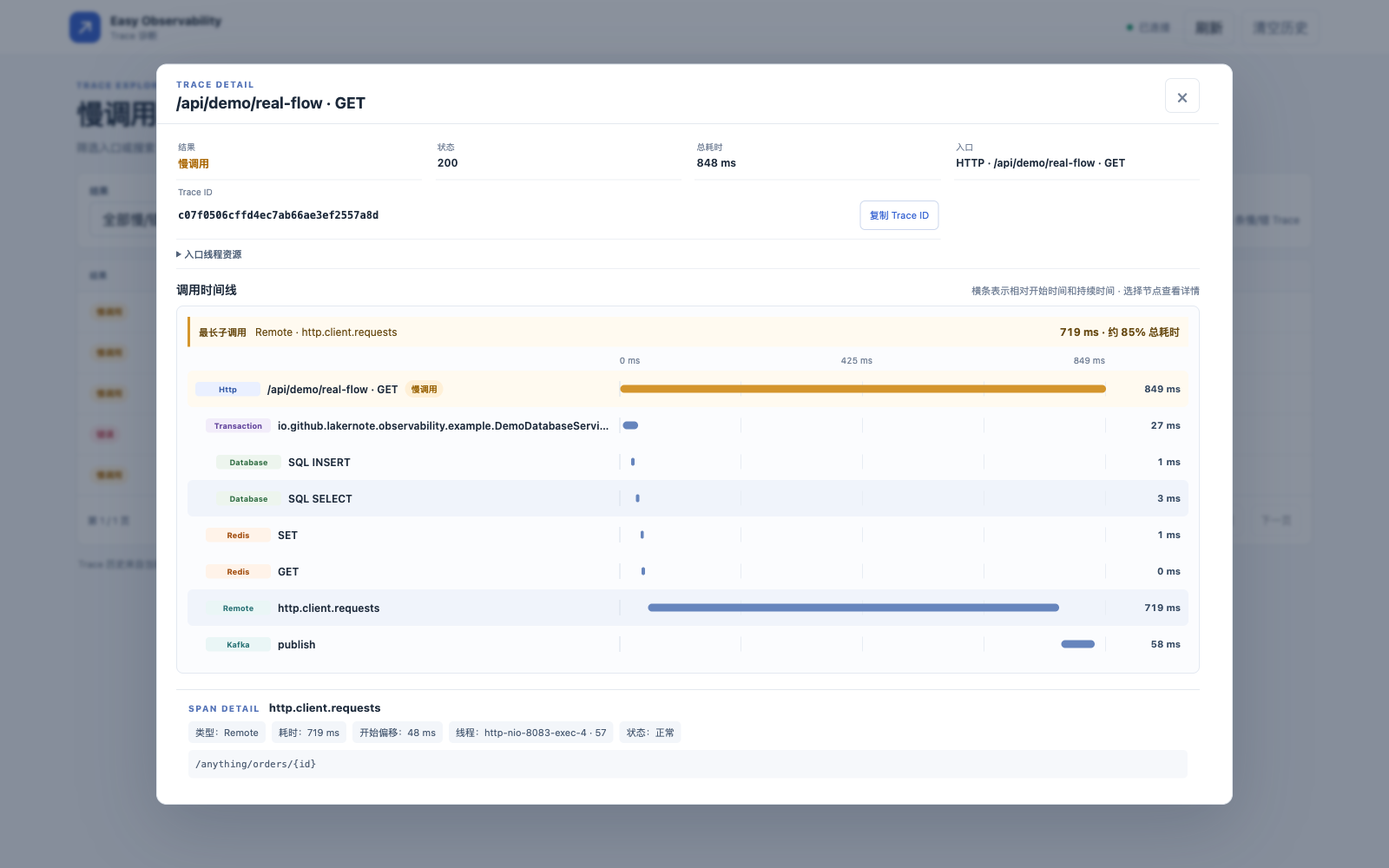
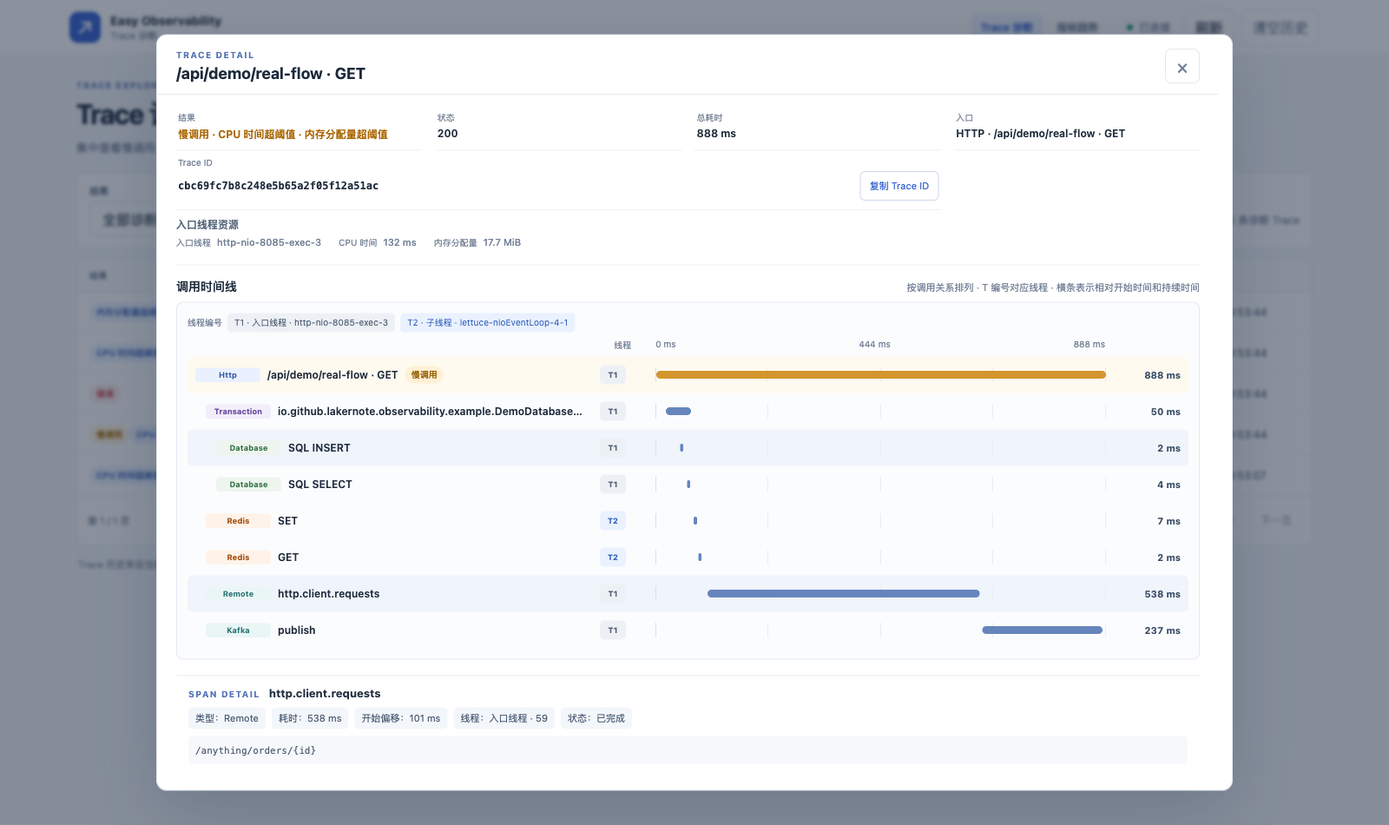
docs: refresh README and metrics previews

diff --git a/README.md b/README.md
@@ -1,29 +1,35 @@
 # Easy Observability
 
-**Spring Boot Trace 与公共指标诊断 Starter**
+**Spring Boot 3/4 内嵌式 Trace 诊断与公共 Metrics 趋势。**
 
-[更新记录](CHANGELOG.md)
+Easy Observability 帮助应用开发者快速回答两个问题：一次请求慢在哪里、异常从哪里开始；服务的请求量、错误和依赖耗时最近有什么变化。引入一个 Starter，即可在应用内查看 Trace 时间线和常用运行指标，不必先部署一套独立观测平台。
 
-面向 Spring Boot 3/4 应用的轻量嵌入式排障工具。它从 HTTP 请求、定时任务和 Kafka 消费入口采集 Trace，并串联可观测到的 JDBC、Redis、事务及远程调用，帮助快速定位慢调用、异常、CPU 消耗和内存分配问题。Trace ID 可沿受支持的 HTTP 客户端和 Kafka 消息传播；页面和有界历史聚焦当前应用实例。
+[![Boot 3 Starter](https://img.shields.io/maven-central/v/io.github.lakernote/easy-observability-spring-boot-3-starter?label=Boot%203%20Starter&logo=apachemaven)](https://central.sonatype.com/artifact/io.github.lakernote/easy-observability-spring-boot-3-starter)
+[![Boot 4 Starter](https://img.shields.io/maven-central/v/io.github.lakernote/easy-observability-spring-boot-4-starter?label=Boot%204%20Starter&logo=apachemaven)](https://central.sonatype.com/artifact/io.github.lakernote/easy-observability-spring-boot-4-starter)
 
-项目提供 Spring Boot 3 和 Spring Boot 4 两个 Starter。除 Trace 诊断外，组件还会把一组固定的公共运行指标写入本地 RRD 历史，并在嵌入页面展示趋势。该历史使用独立的 Micrometer `StepMeterRegistry`，不会替换或重新配置应用已有的 InfluxDB 等指标后端。
+## 解决什么问题
 
-[![Boot 3 Starter on Maven Central](https://img.shields.io/maven-central/v/io.github.lakernote/easy-observability-spring-boot-3-starter?label=Boot%203%20Starter&logo=apachemaven)](https://central.sonatype.com/artifact/io.github.lakernote/easy-observability-spring-boot-3-starter)
-[![Boot 4 Starter on Maven Central](https://img.shields.io/maven-central/v/io.github.lakernote/easy-observability-spring-boot-4-starter?label=Boot%204%20Starter&logo=apachemaven)](https://central.sonatype.com/artifact/io.github.lakernote/easy-observability-spring-boot-4-starter)
+- **单次请求定位：** 从 HTTP、定时任务或 Kafka 消费入口查看调用时间线，串联 JDBC、Redis、远程 HTTP、Kafka 和已接入的异步任务；慢调用、错误及 CPU 时间或内存分配量超阈值的入口会进入诊断列表。
+- **趋势查看：** 在内嵌 Metrics 页面查看 HTTP、任务、Kafka、Redis、JVM/GC、CPU 和线程池等公共指标，识别问题出现的时间和变化方向。
+- **轻量接入：** 通过 Spring Boot Starter 自动配置。指标历史只保存组件定义的公共指标，使用有界的本地 RRD 存储；应用现有 Micrometer registry（例如 InfluxDB）仍按原配置工作。
 
 ## 界面预览
 
-Trace 诊断页汇总慢调用、错误以及 CPU 时间或内存分配量超阈值的入口；打开记录后，可沿时间线查看数据库、Redis、远程调用等节点，并定位耗时最长的子调用或资源告警。
-
-指标趋势页仅展示公共运行指标，并使用固定指标清单和定长本地历史；不会把应用所有自定义 Meter 自动写入 RRD。
+诊断列表聚焦需要排查的入口：
 
 ![Trace 诊断列表](docs/images/trace-list.png)
 
-![Trace 详情时间线及最长子调用](docs/images/trace-detail-timeline.png)
+打开一条记录查看入口资源、线程泳道和依赖调用的相对时序：
 
-## 安装
+![Trace 详情时间线](docs/images/trace-detail-timeline.png)
 
-按应用的 Spring Boot 主版本选择一个 Starter：
+Metrics 页面按指标类别查看历史曲线，点击图例可切换序列：
+
+![公共 Metrics 趋势](docs/images/metrics-dashboard.png)
+
+## 快速接入
+
+选择与应用 Spring Boot 主版本匹配的 Starter（Java 17+）：
 
 ```xml
 <!-- Spring Boot 3 -->
@@ -43,195 +49,16 @@ Trace 诊断页汇总慢调用、错误以及 CPU 时间或内存分配量超阈
 </dependency>
 ```
 
-当前为预览版本，需要 Java 17+ 和 Maven 3.6.3+。在仓库根目录运行 `mvn verify` 可构建两个 Starter 和示例应用。
+默认启用 Trace、公共 Metrics 和嵌入页面。应用启动后访问：
 
-## 模块结构
+- Trace 诊断：`/easy-observability/`
+- Metrics 趋势：`/easy-observability/metrics/`
 
-```text
-easy-observability-spring-boot-common/           # Trace 实现、页面及共享自动配置
-easy-observability-spring-boot-3-autoconfigure/ # Boot 3 自动配置
-easy-observability-spring-boot-3-starter/       # Boot 3 依赖入口
-easy-observability-spring-boot-4-autoconfigure/ # Boot 4 自动配置
-easy-observability-spring-boot-4-starter/       # Boot 4 依赖入口
-examples/                                       # 两个 Boot 版本的端到端示例
-```
+生产环境请通过应用现有的 Spring Security 或网关保护页面和 API；Starter 不创建独立账号或登录系统。常用配置、采集范围和访问控制说明见[接入与配置指南](docs/guide.md)。
 
-应用只需引入对应 Starter。它包含 Actuator 以使用 Spring Boot 的 Observation 基础设施；Starter 不覆盖应用已有的 `MeterRegistry` 或 `ObservationRegistry`，也不额外开放 Actuator 端点。应用是否暴露 Actuator 指标由应用自行配置。
+## 本地体验
 
-## 自动 Trace 与接入边界
-
-自动入口 Trace 来自 Spring MVC HTTP、Spring `@Scheduled` 和启用 Observation 的 Spring Kafka Listener。入口下游调用会作为 Span 加入当前 Trace；没有入口上下文时，不会为单个依赖调用创建伪造的请求 Trace。
-
-| 操作 | Trace 行为 | 边界 |
-| --- | --- | --- |
-| HTTP server | 记录入口路由、状态、耗时和错误 | 非 Spring MVC 入口需要显式接入 |
-| Spring HTTP client、OkHttp | 在对应客户端 Observation 可用时记录远程调用；Spring 管理的 `RestClient.Builder` 自动传递 Trace ID；Spring 容器中的 OkHttpClient 会自动增强 | `RestClient.create()` 等绕过 Spring Builder 的客户端不会自动增强 |
-| JDBC | 在当前 Trace 中记录脱敏 SQL 模板、耗时和错误 | 自动采集；不记录绑定参数，也不做 SQL 汇总统计 |
-| Spring 事务、MyBatis | 记录事务范围；MyBatis SQL 通过 DataSource/JDBC 监听器记录为 SQL Span | 不额外创建 Mapper Span；自定义事务或非 Spring 边界需自行接入 |
-| Redis | Lettuce Observation 记录命令级 Span；通过 Spring Data Redis 使用 Redisson 时，连接命令也会记录为 Span | Spring Boot 3/4 自动接入 Lettuce Observation；Redisson 需通过 `RedissonConnectionFactory` 暴露为 `RedisConnectionFactory` |
-| Kafka | Listener 和 producer Observation 记录为入口或依赖 Span，并传播 Trace ID | Spring Kafka 需要启用 Listener/Template Observation；自定义消费者需自行接入 |
-| 线程池任务 | `TraceContextTaskDecorator` 在线程池边界传播活动 Trace，并自动记录任务耗时和异常 | 在线程池配置一次装饰器；无活动父 Trace 时不创建任务节点 |
-| 业务方法 | `TraceBlock` 或 `@TraceSpan` 添加业务 Span | 不扫描所有 Service；`@TraceSpan` 需要应用已有 Spring AOP |
-
-组件维护自己的 RRD4J `StepMeterRegistry`，只接受下文列出的公共指标，并限制会形成历史序列的标签数量。应用已有的 `MeterRegistry`（例如 InfluxDB）仍按原配置工作；Micrometer 的 Composite registry 会把观察数据同时发送给各 registry。RRD 历史只在当前实例本地保存，不会跨实例汇总。
-
-公共指标范围包括 HTTP 入口/出口请求数、错误数和平均耗时，定时任务与 Kafka Listener/发送，Redis 命令/操作耗时，JVM 内存池与 GC 暂停，进程/系统 CPU、JVM 活跃线程，以及 Spring/JDK 线程池活跃数、排队数、池大小、最大值和完成任务数。历史保留有助于定位问题的有限标签维度：HTTP 方法与 URI、任务和 Kafka 名称、Redis 客户端与命令、JVM 内存池、GC 事件和线程池名称均可独立成线；每类维度设有上限，超出部分进入“其他”。点击图例可隐藏或显示曲线，拖动可缩放时间范围。CPU 和活跃线程等实例级指标按实例展示；Trace 用于查看单次调用细节。Kafka 发送/消费指标遵循 Spring Kafka Observation 开关；Redis 指标来自 Lettuce Observation，或通过 Redisson `RedisConnectionFactory` 执行的 Spring Data Redis 命令。
-
-短时间范围按配置的采样周期显示；默认 60 秒采样时，7 天和 30 天范围分别使用约 5 分钟和 1 小时分辨率。更改采样周期后，归档间隔会按采样周期取整，并由查询接口返回实际间隔。长时间范围中的每个点是该归档区间内已有采样值的平均，不是区间总数；平均耗时先按采样周期计算，降采样后也不是按请求数加权的全时段均值。部分 JVM 内存池没有固定上限，不会绘制该池的上限线。
-
-指标页面地址为 `/easy-observability/metrics/`，只读 API 为 `/api/easy-observability/metrics?period=1h|24h|7d|30d`。历史默认每分钟采样、保留 30 天，RRD 文件上限 64 MiB。可配置存储目录和上限；调整采样周期或保留周期会重建固定大小的 RRD 文件并清除旧的本地指标历史。每个服务实例应使用自己的本地目录，不要让多个进程同时写同一个 RRD 文件。
-
-Lettuce Redis 指标复用 Micrometer Observation；Redisson 的 Spring Data Redis 命令由 Starter 记录低基数操作计时。直接通过 Redisson API 调用的操作（例如 `RLock`、`RMap`）不经过 `RedisConnectionFactory`，不会进入这组命令指标。
-
-## Trace 诊断与根因定位
-
-诊断列表只保留慢调用、错误或 CPU 时间/内存分配量超阈值的入口，不会显示普通请求。列表支持按入口、结果类型和文本搜索，可匹配 Trace ID、SQL、依赖名称与错误摘要。详情包含入口总耗时、各调用节点耗时、HTTP 状态、线程信息及调用时间线，并显示入口线程在本次入口执行期间消耗的 CPU 时间和累计内存分配量。CPU 时间不是 CPU 使用率；内存分配量不是当前堆占用，两个数都不包含子线程。单个依赖错误会标记在对应 Span 上；依赖耗时仍完整保留，便于从入口 Trace 中定位耗时步骤。
-
-捕获到异常时，详情和诊断归档会保存异常类型、消息及有界堆栈；HTTP 5xx 等只有状态码的错误会标记为错误，但没有异常对象时不会生成虚构堆栈。SQL 会在进入 Trace 前清理字面量和注释。调用树和异常堆栈均有大小限制，避免单条异常无限扩张存储。
-
-慢调用、错误及资源超阈值 Trace 会同时保留在有界内存近期列表和本地 JSONL 文件中；正常 Trace 不会占用这两处历史记录。默认文件为 `./data/easy-observability/traces.jsonl`；多实例之间不会自动汇总。Trace ID 默认通过 `X-Trace-Id` 请求头传递。页面路径为 `/easy-observability/`，Trace API 路径为 `/api/easy-observability`；查询接口为 GET，清空历史为 `POST /api/easy-observability/storage/clear`。诊断筛选 API 为 `/api/easy-observability/diagnostics?kind=slow|error|resource`。
-
-## 配置
-
-以下配置均可省略；默认开启 Trace、HTTP 页面及 JDBC/Redis/事务节点采集，并在每个入口采集入口线程在入口执行期间的 CPU 时间和内存分配量。CPU 时间表示入口线程实际运行在 CPU 上的累计时间，不是 CPU 使用率；内存分配量是该线程期间创建对象的累计大小，不是当前堆占用。两项数据均不包含子线程。Starter 会提供线程池上下文装饰器 Bean，在线程池配置使用后才会传播和记录任务。慢阈值仅用于 HTTP、定时任务和 Kafka 消费入口；设为 `0` 或负数可关闭对应入口的慢分类。依赖节点始终记录耗时和错误，不单独按慢阈值标记；所有命中的诊断 Trace 都会保留。
-
-```yaml
-easy:
-  observability:
-    enabled: true
-    trace:
-      enabled: true
-      header-name: X-Trace-Id
-      http-slow-threshold-ms: 500
-      job-slow-threshold-ms: 1000
-      kafka-consumer-slow-threshold-ms: 1000
-      cpu-threshold-ms: 500
-      allocated-memory-threshold: 50MB
-      diagnostic-trace-file: ./data/easy-observability/traces.jsonl
-      diagnostic-history-limit: 1000
-      diagnostic-max-bytes: 8MB
-    metrics:
-      enabled: true
-      step: 60s
-      storage-directory: ./data/easy-observability/metrics
-      retention-days: 30
-      max-storage-bytes: 64MB
-    web:
-      enabled: true
-      allow-anonymous: false
-      trace-limit: 500
-```
-
-| 配置 | 默认值 | 作用 |
-| --- | --- | --- |
-| `easy.observability.enabled` | `true` | Starter 总开关；关闭后不创建 Easy Observability 自动配置 |
-| `easy.observability.trace.enabled` | `true` | Trace 采集和上下文传播总开关 |
-| `easy.observability.trace.header-name` | `X-Trace-Id` | HTTP 请求/响应及受支持客户端、Kafka 消息使用的 Trace ID 名称 |
-| `easy.observability.trace.http-slow-threshold-ms` | `500` | HTTP 入口慢阈值 |
-| `easy.observability.trace.job-slow-threshold-ms` | `1000` | 定时任务入口慢阈值 |
-| `easy.observability.trace.kafka-consumer-slow-threshold-ms` | `1000` | Kafka 消费入口慢阈值 |
-| `easy.observability.trace.cpu-threshold-ms` | `500` | 入口线程 CPU 时间达到该值时保存资源告警 Trace；设为 `0` 或负数关闭 CPU 触发 |
-| `easy.observability.trace.allocated-memory-threshold` | `50MB` | 入口线程累计分配量达到该值时保存资源告警 Trace；支持 `8MB` 等大小写法，设为 `0B` 关闭分配量触发 |
-| `easy.observability.trace.diagnostic-trace-file` | `./data/easy-observability/traces.jsonl` | 诊断入口 Trace 的 JSONL 归档路径，相对路径以应用工作目录为基准 |
-| `easy.observability.trace.diagnostic-history-limit` | `1000` | 诊断归档索引的最大记录数；实际下限为 `100` |
-| `easy.observability.trace.diagnostic-max-bytes` | `8MB` | JSONL 诊断归档文件上限；实际下限为 `1MB`，超限时保留较新的记录 |
-| `easy.observability.metrics.enabled` | `true` | 公共指标采集和本地 RRD 历史总开关；不影响应用其他指标后端 |
-| `easy.observability.metrics.step` | `60s` | 指标采样周期，允许范围 10 秒至 1 小时 |
-| `easy.observability.metrics.storage-directory` | `./data/easy-observability/metrics` | RRD 历史目录，相对路径以应用工作目录为基准 |
-| `easy.observability.metrics.retention-days` | `30` | 本地历史保留时间，允许范围 7 至 365 天；较早数据以更粗粒度归档 |
-| `easy.observability.metrics.max-storage-bytes` | `64MB` | RRD 历史文件大小上限；配置需足以容纳当前采样周期、保留期和固定指标集 |
-| `easy.observability.web.enabled` | `true` | 是否提供 Trace/指标页面和查询 API |
-| `easy.observability.web.allow-anonymous` | `false` | 默认访问策略是否允许匿名调用 Trace 与指标 API；不是认证配置，也不保护页面文件本身 |
-| `easy.observability.web.trace-limit` | `500` | 最近诊断入口 Trace 的内存窗口容量，不影响 JSONL 归档容量 |
-
-### 页面访问控制
-
-Starter 不提供用户名、密码、登录页或独立的用户系统。`easy.observability.web.allow-anonymous` 只决定默认 `ObservabilityAccessPolicy` 是否放行 Trace 和指标 API：默认 `false` 时，默认策略拒绝所有 API 请求（到达控制器时返回 403），即使应用已完成登录也需提供自己的 `ObservabilityAccessPolicy`；设为 `true` 时，默认策略允许匿名 API 请求，但应用已有的 Spring Security、网关或网络访问控制仍然有效。
-
-该策略只在 Trace/指标 API 控制器中检查。HTML 页面 `/easy-observability/**` 和静态资源 `/easy-observability/assets/**` 不经过 `ObservabilityAccessPolicy`；若页面本身也不能公开，应在应用现有的 Spring Security `SecurityFilterChain` 或反向代理中，同时保护 `/easy-observability/**` 和 `/api/easy-observability/**`。生产环境通常复用应用已有的登录和角色，不需要为这个嵌入式页面再建一套认证；再提供策略 Bean，将当前登录用户的权限用于 API 授权。例如：
-
-```java
-import io.github.lakernote.observability.web.ObservabilityAccessPolicy;
-import org.springframework.context.annotation.Bean;
-import org.springframework.security.authentication.AnonymousAuthenticationToken;
-import org.springframework.security.core.context.SecurityContextHolder;
-
-@Bean
-ObservabilityAccessPolicy observabilityAccessPolicy() {
-    return () -> {
-        var authentication = SecurityContextHolder.getContext().getAuthentication();
-        return authentication != null
-                && authentication.isAuthenticated()
-                && !(authentication instanceof AnonymousAuthenticationToken)
-                && authentication.getAuthorities().stream()
-                    .anyMatch(authority -> authority.getAuthority().equals("ROLE_OBSERVABILITY_VIEW"));
-    };
-}
-```
-
-上例需要应用已有 Spring Security。也可在 `ObservabilityAccessPolicy` Bean 中调用应用自己的授权服务。该策略目前同时保护 Trace 查询和清空历史的 `POST /api/easy-observability/storage/clear`；若查看者不能清空历史，应在应用的 `SecurityFilterChain` 或网关中单独要求该 POST 路径具备管理权限。`allow-anonymous=true` 适用于可信的本地示例环境，不适合直接暴露到不可信网络。近期内存窗口和 JSONL 归档保存慢、错误或 CPU/分配量达到阈值的入口 Trace；`web.trace-limit` 控制内存窗口，`diagnostic-history-limit` 控制归档索引条数，`diagnostic-max-bytes` 控制磁盘文件大小。
-
-页面也可嵌入同源 iframe。父页面收到 `easy-observability:auth-request` 后，可向 iframe 回发 `easy-observability:auth-response` 和应用的 Bearer token；页面会将 token 加到 Trace API 请求的 `Authorization` 头。Starter 本身不校验该 token，应用的 Spring Security 或网关仍需负责验证和授权。若应用使用同源 Cookie 登录，页面 API 请求会自动携带同源凭证，不需要额外传 token。内置的清空历史按钮会发送 POST，但目前不会自动附带应用的 CSRF token；如果 Spring Security 的 CSRF 保护启用，需要将现有 CSRF token 接入该请求。
-
-### Kafka Listener Trace 接入范围
-
-Kafka 消费端从消息头恢复 Trace ID，并提供 `TraceIdRecordInterceptor` 给 Spring Boot 默认 Listener Factory，因此使用默认 Factory 的 `@KafkaListener` 通常无需额外配置。生产端自动写入消息头；Spring Kafka 还需启用 Listener/Template Observation，Trace ID 才能跨生产和消费关联。
-
-拦截器在 Listener 执行前读取消息头（默认 `X-Trace-Id`），恢复当前线程上下文；消息头缺失或格式无效时会生成新的 Trace ID。Listener 执行后会恢复线程原有上下文。它不读取消息体，也不会自动接入原生 `KafkaConsumer`、Kafka Streams 或绕过 Spring Boot Listener Factory 的自定义消费代码。
-
-Kafka 自动接入由类路径上的 Spring Kafka 和 `easy.observability.enabled`、`easy.observability.trace.enabled` 控制，没有单独的 Kafka 开关。若应用已定义自己的 `RecordInterceptor` Bean，Starter 会让出该 Bean；请显式组合 Trace 拦截器。自定义 Listener Factory 若不使用 Boot 的 Factory 配置器，也需手动设置：
-
-```java
-@Bean
-ConcurrentKafkaListenerContainerFactory<String, String> ordersListenerFactory(
-        ConsumerFactory<String, String> consumerFactory,
-        TraceIdRecordInterceptor traceInterceptor) {
-    var factory = new ConcurrentKafkaListenerContainerFactory<String, String>();
-    factory.setConsumerFactory(consumerFactory);
-    factory.setRecordInterceptor(traceInterceptor);
-    return factory;
-}
-
-@KafkaListener(topics = "orders", containerFactory = "ordersListenerFactory")
-public void consume(String message) {
-    // 这里可读取 TraceIdContext.currentTraceId() 获取当前消息的 Trace ID。
-}
-```
-
-如果 Factory 已有拦截器，用 Spring Kafka 的 `CompositeRecordInterceptor` 组合。Trace 拦截器放在前面，让应用拦截器可以读取当前 Trace ID：
-
-```java
-factory.setRecordInterceptor(new CompositeRecordInterceptor<>(
-        new TraceIdRecordInterceptor<>(properties),
-        existingInterceptor));
-```
-
-## 手动添加业务 Span
-
-```java
-return TraceBlock.call("partner.lookup", SpanKind.REMOTE, "partner-api",
-        () -> partnerClient.lookup(accountId));
-```
-
-在线程池上配置一次公共装饰器即可自动记录任务边界，不需要在每个任务里手动调用 Trace API：
-
-```java
-@Bean("billingExecutor")
-ThreadPoolTaskExecutor billingExecutor(TraceContextTaskDecorator traceTaskDecorator) {
-    ThreadPoolTaskExecutor executor = new ThreadPoolTaskExecutor();
-    executor.setCorePoolSize(4);
-    executor.setTaskDecorator(traceTaskDecorator);
-    return executor;
-}
-```
-
-后续照常提交任务；装饰器会在线程池边界自动创建 `executor.task` Trace 节点。
-
-Spring 管理的 `RestClient.Builder` 也会自动传递当前 Trace ID，并使用 Spring Boot 的 Observation 记录远程调用。通过 `RestClient.create()` 或独立 `RestClient.builder()` 绕过 Spring Builder 时，不会应用 Starter 的 Trace ID 拦截器。
-
-## 运行示例
-
-示例演示 JDBC 查询、事务回滚、Redis、远程 HTTP、Kafka 和异步线程池上下文传播 Trace。启动本地依赖后运行任一示例：
+示例包含 JDBC、Redis、远程 HTTP、Kafka、异步线程池及资源消耗场景，可直接生成 Trace 和 Metrics：
 
 ```bash
 docker compose -f examples/docker-compose.yml up -d --wait
@@ -239,8 +66,4 @@ mvn -pl examples/easy-observability-example-spring-boot-3 -am package
 java -jar examples/easy-observability-example-spring-boot-3/target/easy-observability-example-spring-boot-3-0.1.0-alpha.3.jar
 ```
 
-Boot 3 示例运行在 `http://localhost:8083/`，Boot 4 示例运行在 `http://localhost:8084/`。示例启用了匿名 Trace 页面，仅用于本地体验。完整场景见 [示例使用说明](examples/README.md)。
-
-## Maven Central 发布
-
-项目按 Maven Central 发布格式构建全部模块。发布前需要配置 Sonatype Central 凭据和 GPG 签名；发布步骤及签名配置见 [贡献指南](CONTRIBUTING.md)。
+打开 `http://localhost:8083/` 查看示例入口。更多场景和 Boot 4 启动方式见[示例说明](examples/README.md)。

diff --git a/docs/guide.md b/docs/guide.md
@@ -1,0 +1,86 @@
+# 接入与配置
+
+引入与应用 Spring Boot 主版本匹配的 Starter 后，Easy Observability 会自动注册 Trace 采集、公共 Metrics 历史和嵌入页面。通常不需要额外配置。Starter 不替换应用已有的 `MeterRegistry`、`ObservationRegistry`，也不会把应用自定义的全部 Meter 写入本地历史。
+
+## 自动采集范围
+
+| 场景 | 采集内容 | 说明 |
+| --- | --- | --- |
+| HTTP 入口 | 路由、状态、耗时、错误、入口线程 CPU 时间和内存分配量 | 慢阈值分类针对入口；CPU 时间和分配量是入口线程累计值，不是进程使用率或当前堆占用，不包含子线程 |
+| 定时任务、Kafka Listener | 入口执行耗时和错误 | Kafka 跨生产/消费关联依赖 Spring Kafka Observation |
+| JDBC、事务、MyBatis | SQL 模板、事务范围、耗时和错误 | SQL 会清理字面量和注释，不记录绑定参数 |
+| Redis | Lettuce Observation 命令 Span；Spring Data Redis 经 Redisson `RedisConnectionFactory` 执行的命令 Span | 直接调用 Redisson `RLock`、`RMap` 等 API 不属于这组连接工厂命令采集 |
+| 远程 HTTP | 已接入的客户端调用 Span；支持的客户端可传播 Trace ID | Spring 管理的 `RestClient.Builder` 自动接入；自行创建并绕过 Spring Builder 的客户端需自行配置 |
+| 异步线程池 | 任务耗时、异常及活动 Trace 上下文传播 | 配置 `TraceContextTaskDecorator` 后，才会记录该线程池的任务边界；请求已返回后继续运行的后台任务不会延长已完成的入口 Trace |
+| Metrics | HTTP 入口/出口、定时任务、Kafka、Redis、JVM 内存与 GC、CPU、线程池等固定公共指标 | 标签维度拆分为独立曲线并设有上限；每个应用实例独立保存本地历史 |
+
+自定义业务边界可使用 `TraceBlock` 或 `@TraceSpan`。组件不会扫描所有业务 Service 自动创建 Span。
+
+## 默认配置
+
+下面列出常用配置；未列出的配置保持 Starter 默认值。所有配置均可省略。
+
+| 配置 | 默认值 | 说明 |
+| --- | --- | --- |
+| `easy.observability.enabled` | `true` | Starter 总开关 |
+| `easy.observability.trace.enabled` | `true` | Trace 采集及上下文传播 |
+| `easy.observability.trace.header-name` | `X-Trace-Id` | HTTP 与受支持消息/客户端使用的 Trace ID 名称 |
+| `easy.observability.trace.http-slow-threshold-ms` | `500` | HTTP 入口慢阈值 |
+| `easy.observability.trace.job-slow-threshold-ms` | `1000` | 定时任务入口慢阈值 |
+| `easy.observability.trace.kafka-consumer-slow-threshold-ms` | `1000` | Kafka 消费入口慢阈值 |
+| `easy.observability.trace.cpu-threshold-ms` | `500` | 入口线程 CPU 时间资源告警阈值；设为 `0` 或负数可关闭此类触发 |
+| `easy.observability.trace.allocated-memory-threshold` | `50MB` | 入口线程累计内存分配量资源告警阈值；设为 `0B` 可关闭此类触发 |
+| `easy.observability.trace.diagnostic-trace-file` | `./data/easy-observability/traces.jsonl` | 诊断 Trace 归档文件 |
+| `easy.observability.trace.diagnostic-history-limit` | `1000` | 归档索引的最大记录数 |
+| `easy.observability.trace.diagnostic-max-bytes` | `8MB` | 诊断归档大小上限 |
+| `easy.observability.metrics.enabled` | `true` | 公共 Metrics 与本地历史总开关 |
+| `easy.observability.metrics.step` | `60s` | 指标采样周期，范围 10 秒至 1 小时 |
+| `easy.observability.metrics.storage-directory` | `./data/easy-observability/metrics` | RRD 历史目录 |
+| `easy.observability.metrics.retention-days` | `30` | 历史保留天数，范围 7 至 365 天 |
+| `easy.observability.metrics.max-storage-bytes` | `64MB` | RRD 历史存储上限 |
+| `easy.observability.web.enabled` | `true` | 页面和查询 API 开关 |
+| `easy.observability.web.allow-anonymous` | `false` | 默认 API 访问策略是否允许匿名请求 |
+| `easy.observability.web.trace-limit` | `500` | 最近 Trace 的内存窗口容量 |
+
+示例：
+
+```yaml
+easy:
+  observability:
+    metrics:
+      step: 60s
+      retention-days: 30
+      max-storage-bytes: 64MB
+    trace:
+      http-slow-threshold-ms: 500
+      job-slow-threshold-ms: 1000
+      kafka-consumer-slow-threshold-ms: 1000
+      cpu-threshold-ms: 500
+      allocated-memory-threshold: 50MB
+```
+
+RRD 历史使用独立的 Micrometer `StepMeterRegistry`。采样周期或保留期变化会重建固定大小的 RRD 文件并清除旧的本地指标历史。多实例部署时，每个实例应使用独立目录；该历史不会自动跨实例汇总。采样与长周期归档的统计口径会显示在 Metrics 页面说明中。
+
+## 页面和 API 访问
+
+页面路径为 `/easy-observability/`，Metrics 页面为 `/easy-observability/metrics/`，查询 API 位于 `/api/easy-observability/`。`easy.observability.web.allow-anonymous` 不是认证开关：组件不提供用户名、密码或登录系统。默认值 `false` 会让内置 API 访问策略拒绝匿名请求；设为 `true` 会允许匿名访问 API，但仍受应用已有的 Spring Security、网关和网络策略约束。
+
+生产环境建议用应用现有的身份认证保护 `/easy-observability/**` 和 `/api/easy-observability/**`。若应用已使用 Spring Security，可定义 `ObservabilityAccessPolicy` Bean，根据当前认证用户和角色授权 API；页面静态资源需要由应用自己的 Security Filter Chain 或网关一并保护。
+
+## Kafka 与线程池
+
+Spring Kafka 的 Listener/Template Observation 需要启用，才能记录相应入口/发送指标和 Trace Span。默认 Listener Factory 会自动接入 Trace ID 拦截器；应用使用自定义 `RecordInterceptor` 或 Listener Factory 时，需要按应用现有配置组合/注册 `TraceIdRecordInterceptor`。自定义消费者、Kafka Streams 不会被默认 Listener 集成自动覆盖。
+
+Spring 管理的线程池可设置 Starter 提供的 `TraceContextTaskDecorator`，例如：
+
+```java
+@Bean("billingExecutor")
+ThreadPoolTaskExecutor billingExecutor(TraceContextTaskDecorator decorator) {
+    ThreadPoolTaskExecutor executor = new ThreadPoolTaskExecutor();
+    executor.setCorePoolSize(4);
+    executor.setTaskDecorator(decorator);
+    return executor;
+}
+```
+
+装饰器在线程池执行任务时传播活动 Trace 上下文并记录任务边界；无父 Trace 时不会创建 Trace。若 HTTP 请求先结束，Trace 时间线会在入口结束处停止，仍在运行的子任务标记为未完成，之后发生的调用不再补写到该 Trace。

diff --git a/examples/README.md b/examples/README.md
@@ -3,7 +3,7 @@
 - `easy-observability-example-spring-boot-3`：Spring Boot 3，默认 `http://localhost:8083/`
 - `easy-observability-example-spring-boot-4`：Spring Boot 4，默认 `http://localhost:8084/`
 
-主页按 JDBC、Redis、远程 HTTP、Kafka 和异步线程池分组。每个依赖提供正常、慢、错误场景，便于在 Trace 页面核对耗时节点和异常堆栈。示例不额外记录业务 Metrics。
+主页按 JDBC、Redis、远程 HTTP、Kafka 和异步线程池分组。每个依赖提供正常、慢、错误场景，便于在 Trace 页面核对耗时节点和异常堆栈。示例同时开启组件内置的公共 Metrics 历史，不添加应用专属的自定义指标。
 
 ## 启动
 
@@ -17,15 +17,15 @@ docker compose -f examples/docker-compose.yml up -d --wait
 
 ```bash
 mvn -pl examples/easy-observability-example-spring-boot-3 -am package
-java -jar examples/easy-observability-example-spring-boot-3/target/easy-observability-example-spring-boot-3-0.1.0-alpha.1.jar
+java -jar examples/easy-observability-example-spring-boot-3/target/easy-observability-example-spring-boot-3-0.1.0-alpha.3.jar
 
 mvn -pl examples/easy-observability-example-spring-boot-4 -am package
-java -jar examples/easy-observability-example-spring-boot-4/target/easy-observability-example-spring-boot-4-0.1.0-alpha.1.jar
+java -jar examples/easy-observability-example-spring-boot-4/target/easy-observability-example-spring-boot-4-0.1.0-alpha.3.jar
 ```
 
-打开应用主页，再打开 `/easy-observability/` 查看最近 Trace。Boot 3 示例可用 `http://localhost:8083/`，Boot 4 示例可用 `http://localhost:8084/`。
+打开应用主页，Trace 页面为 `/easy-observability/`，指标趋势页为 `/easy-observability/metrics/`。Boot 3 示例可用 `http://localhost:8083/`，Boot 4 示例可用 `http://localhost:8084/`。
 
-两个本地示例都设置了 `easy.observability.web.allow-anonymous: true`，因此页面可以匿名读取 Trace API，也可以匿名清空示例历史；仅用于本机体验，不要将示例直接暴露到不可信网络。生产应用应复用自己的登录和授权，详见主 [README 的页面访问控制说明](../README.md#页面访问控制)。
+两个本地示例都设置了 `easy.observability.web.allow-anonymous: true`，因此页面可以匿名读取 Trace API，也可以匿名清空示例历史；仅用于本机体验，不要将示例直接暴露到不可信网络。生产应用应复用自己的登录和授权，详见[接入与配置指南](../docs/guide.md#页面和-api-访问)。
 
 ## 依赖调用场景
 
